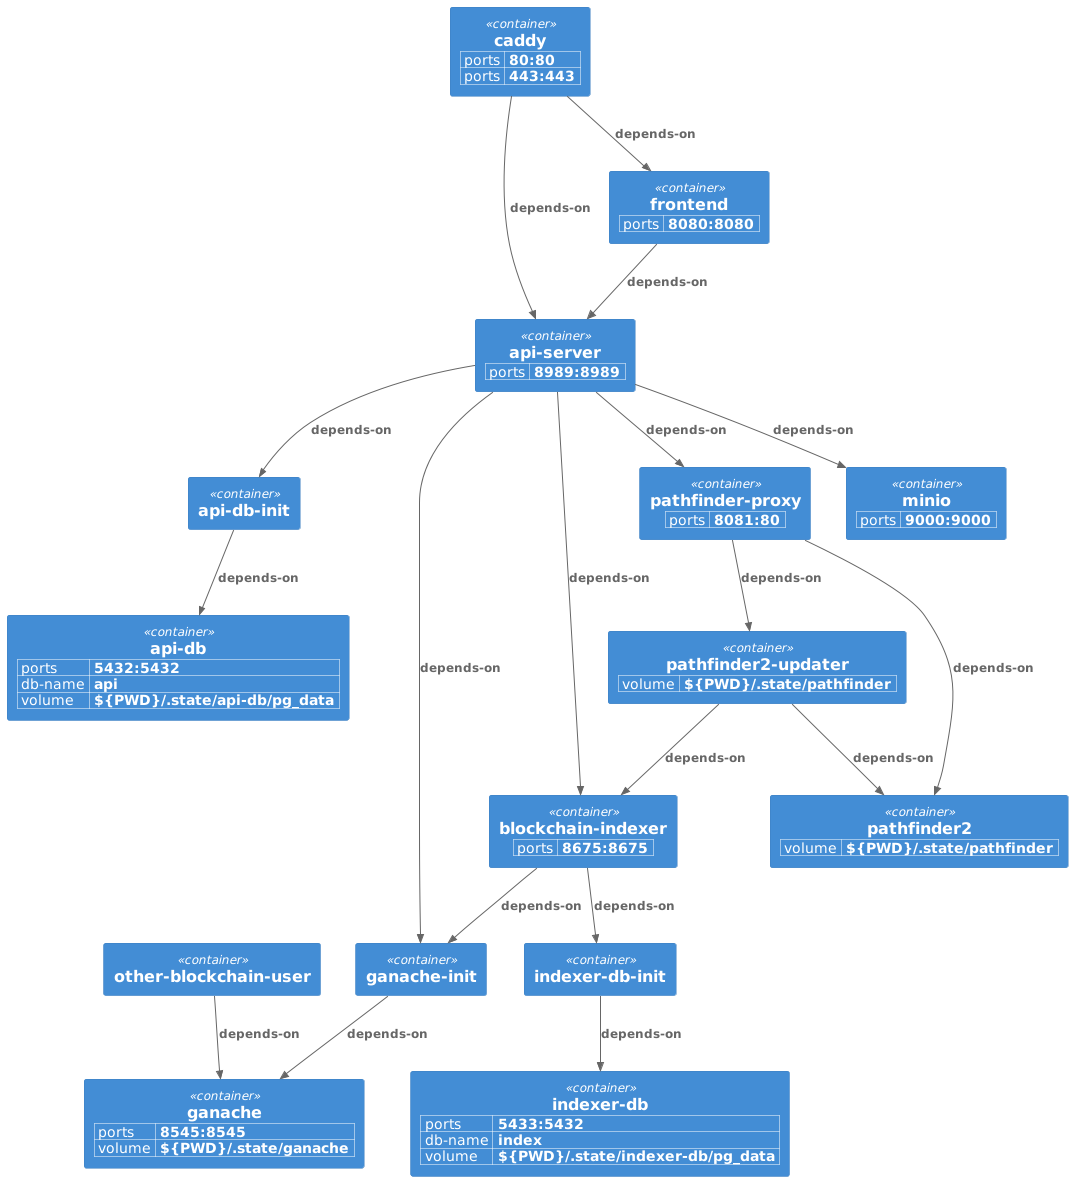
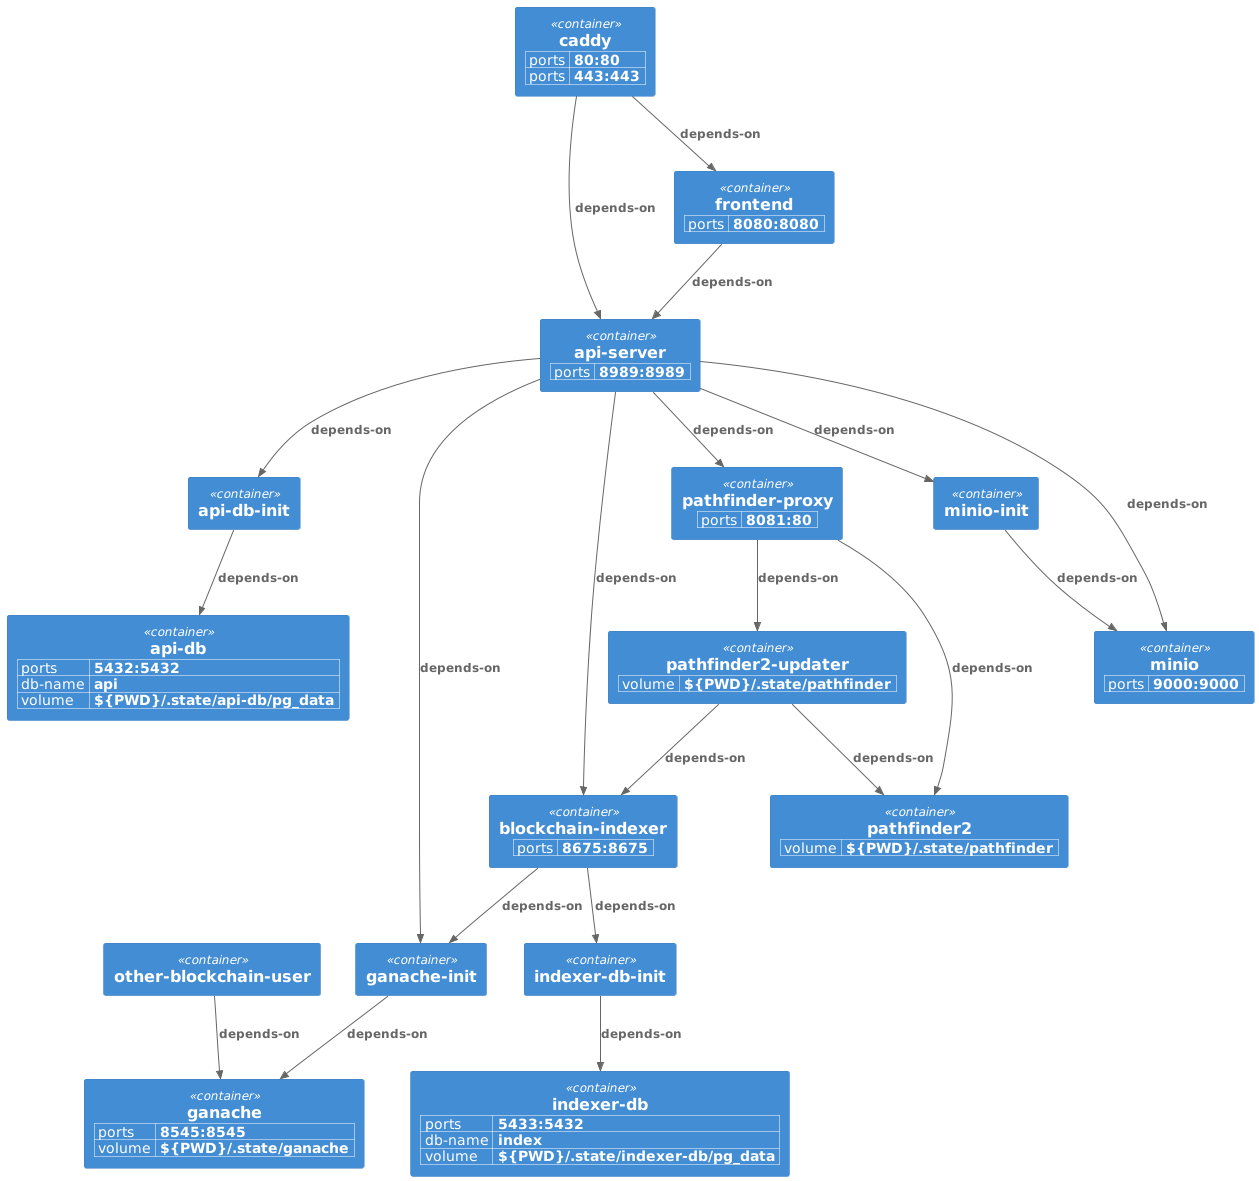
added minio-init to the dependecies of api-server

Changed region(s): [[0.0, 0.0, 1.0, 1.0], [0.123, 0.3353, 0.3383, 0.4572]]

diff --git a/readme.md b/readme.md
@@ -110,3 +110,7 @@ a single container:
 1. Run `docker compose ps -a` to list all the containers in this stack and look for the
    `CONTAINER ID` of the service you want to restart.
 2. Run `docker restart [CONTAINER ID]`
+
+#### Containers don't stop
+You can kill non-responding containers with the following command:  
+`docker compose kill [SERVICE NAME]`
